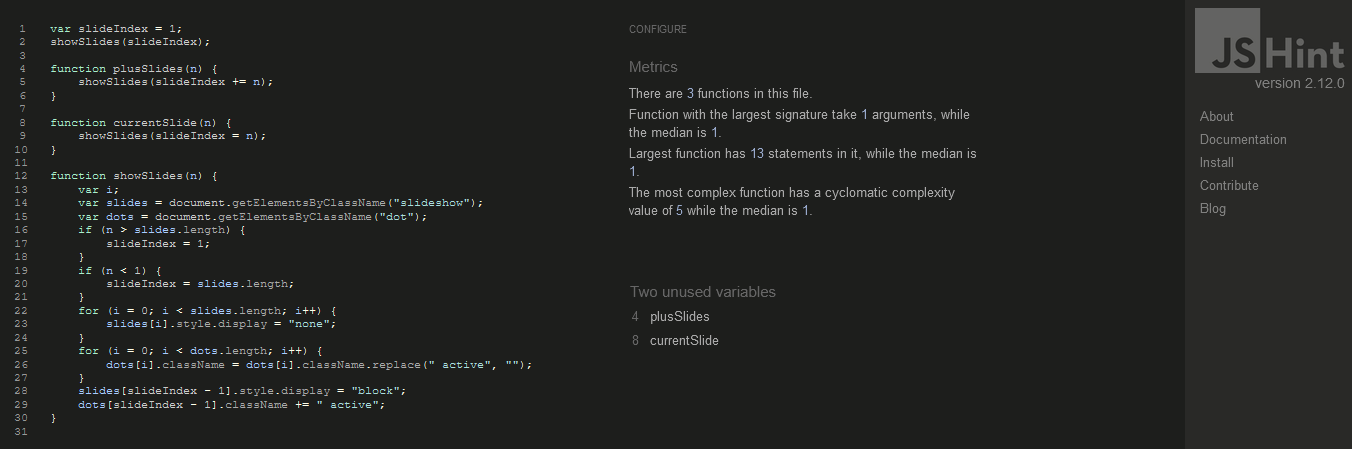
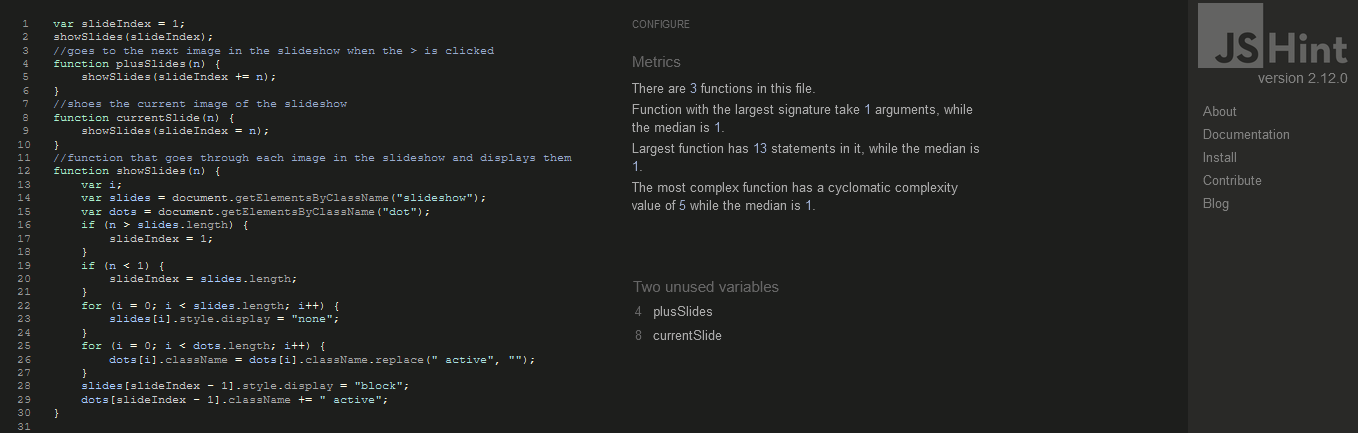
Added comments to each line of code in the js files, html etc

diff --git a/index.html b/index.html
@@ -4,7 +4,7 @@
 <head>
     <meta charset="UTF-8">
     <meta name="viewport" content="width=device-width, initial-scale=1.0">
-    <link href="assets/css/style.css" rel="stylesheet" type="text/css" />
+
 
     <link rel="stylesheet" href="https://use.fontawesome.com/releases/v5.1.1/css/all.css"
         integrity="sha384-O8whS3fhG2OnA5Kas0Y9l3cfpmYjapjI0E4theH4iuMD+pLhbf6JI0jIMfYcK3yZ" crossorigin="anonymous">
@@ -13,11 +13,12 @@
         type="text/css" />
     <link rel="stylesheet" href="https://cdnjs.cloudflare.com/ajax/libs/hover.css/2.1.1/css/hover-min.css"
         type="text/css" />
-
+    <link href="assets/css/style.css" rel="stylesheet" type="text/css" />
     <title>Bookingzilla Homepage</title>
 </head>
 
 <body>
+    <!-- Header that has a link to the index page -->
     <header class="jumbotron" id="navigation">
         <nav class="navbar navbar-masthead navbar-default navbar-fixed-top">
             <div class="container-fluid">
@@ -40,6 +41,7 @@
             </div>
 
             <div class="col">
+                <!-- Suitcase icon got from FontAwesome -->
                 <p>Please see the below slideshow for countries with the most tourists per year,and the top 3
                     cities with the most tourists.
                     <i class="fas fa-suitcase" aria-hidden="true"></i>
@@ -49,11 +51,13 @@
                 </p>
             </div>
             <br />
+            <!-- Slideshow with details of countries with the most tourist -->
             <div class="slideshow-container">
 
-                <!-- Full-width images with number and caption text -->
-                <div class="slideshow">
 
+
+                <div class="slideshow">
+                    <!-- Image of each country, the country name, number of tourists per year and the top 3 cities-->
                     <img class="icon" src="assets/images/spain.jpg" alt="Spain">
                     <h3>Spain</h3>
                     <p>83.5m</p>
@@ -84,10 +88,12 @@
                     <p>Mexico City,Cancun,Meridia</p>
                 </div>
                 <br />
+                <!-- Calls on a function in the emailJS file that goes to the next image in the slideshow -->
                 <a class="prev" onclick="plusSlides(-1)">&#10094;</a>
                 <a class="next" onclick="plusSlides(1)">&#10095;</a>
             </div>
             <div style="text-align:center">
+                <!-- Calls on a function that goes to the slide that is assigned the below number -->
                 <span class="dot" onclick="currentSlide(1)"></span>
                 <span class="dot" onclick="currentSlide(2)"></span>
                 <span class="dot" onclick="currentSlide(3)"></span>
@@ -95,6 +101,7 @@
                 <span class="dot" onclick="currentSlide(5)"></span>
             </div>
             <br />
+            <!-- Image that when clicked on brings the user to the destination page -->
             <div class="row">
                 <div class="col-12">
                     <p>Please click on the below image to search for a destination on Google Maps.
@@ -110,6 +117,7 @@
         </div>
     </div>
     </div>
+    <!-- Used to display my contact details through my social media links -->
     <footer class="footer">
         <div class="container-fluid" id="footer-details">
             <div class="row">
@@ -139,6 +147,7 @@
     </footer>
 
 </body>
+<!-- calls on the below file in order for the slideshow to work properly -->
 <script src="assets/js/slideshow.js"></script>
 
 </html>

diff --git a/assets/js/booking.js b/assets/js/booking.js
@@ -128,7 +128,7 @@ function search() {
         }
     });
 }
-
+//Clears all the markers from the map when this function is called
 function clearMarkers() {
     for (let i = 0; i < markers.length; i++) {
         if (markers[i]) {
@@ -162,13 +162,12 @@ function setAutocompleteCountry() {
     clearResults();
     clearMarkers();
 }
-
+//function that adds markers to the map
 function dropMarker(i) {
     return function () {
         markers[i].setMap(map);
     };
 }
-
 function addResult(result, i) {
     const results = document.getElementById("results");
     const markerLetter = String.fromCharCode("A".charCodeAt(0) + (i % 26));
@@ -270,11 +269,11 @@ function buildIWContent(place) {
     }
 
 }
-
+//removes the text in the enter a city field that the user has entered
 function clearSearch() {
     document.getElementById("autocomplete").value = "";
 }
-
+//calls on the functions clearResults() and clearSearch() in addition to setting the map view back to the default location of the country Spain
 function clearAll() {
 
     clearResults();

diff --git a/contact.html b/contact.html
@@ -38,7 +38,7 @@
         <div class="row bg-color-contact">
             <div class="col">
                 <h3>Want to know more details?</h3>
-                <p>Email me using the below form!</p>
+                <p>Please fill out the below form and click the "Send Message by Email" button to send it to me by email. </p>
                 <div class="center-form">
                     <form onsubmit="return sendMail(this);">
                         <label for="name">Name:</label><br>
@@ -58,7 +58,7 @@
                         <br />
                         <label for="comment">Comment:</label><br>
                         <input type="textarea" name="comment" id="comment" class="form-control"
-                            placeholder="Please enter your comment here" required />
+                            placeholder="Comment here" required />
                         <div class="form-row text-center">
                             <br />
                             <div class="col">

diff --git a/assets/js/emailJS.js b/assets/js/emailJS.js
@@ -1,8 +1,8 @@
-
+//needed to call the EmailJS service
 (function () {
     emailjs.init("user_Z3NhniKVmxQR4ouXUECcZ");
 })();
-
+//function that gets value from the contact form and sends it to the EmailJS website where it is then placed into an email template that is then sent out to me by email
 function sendMail(contactForm) {
     emailjs.send("service_m0pgoxr", "template_8t12twf", {
             "from_name": contactForm.name.value,
@@ -11,6 +11,7 @@ function sendMail(contactForm) {
             "from_comment": contactForm.comment.value,
             "from_people": contactForm.people.value,
         })
+        //outputs message on developer tool saying whether or not values in the form was sent to EmailJS successfully
         .then(
             function (response) {
                 console.log("SUCCESS", response);

diff --git a/assets/js/slideshow.js b/assets/js/slideshow.js
@@ -1,14 +1,14 @@
 var slideIndex = 1;
 showSlides(slideIndex);
-
+//goes to the next image in the slideshow when the > is clicked
 function plusSlides(n) {
     showSlides(slideIndex += n);
 }
-
+//shoes the current image of the slideshow
 function currentSlide(n) {
     showSlides(slideIndex = n);
 }
-
+//function that goes through each image in the slideshow and displays them
 function showSlides(n) {
     var i;
     var slides = document.getElementsByClassName("slideshow");

diff --git a/assets/css/style.css b/assets/css/style.css
@@ -33,12 +33,13 @@
 
 }
 
-.slideshow p,
+.col h3,
 .slideshow h3 {
-    color: coral;
-    text-align: center;
+    color: snow;
     font-weight: bold;
+    text-align: center;
 }
+
 
 h3 {
     color: snow;
@@ -60,8 +61,8 @@ p {
 
 /*Google Maps*/
 #map {
-    min-height: 400px;
-
+    min-height: 360px;
+   
 
 }
 
@@ -215,6 +216,6 @@ label {
 #comment {
     display: block;
     margin: auto;
-
+    width: 50%;
     height: 100px;
 }

diff --git a/README.md b/README.md
@@ -76,7 +76,7 @@ I have included wireframes for each page on this website, click on the below pag
 
 [Homepage](https://github.com/SeanD17/Milestone-Project-2/blob/b4ecb737670ae55172b7f67d1a049dfa0cecfe22/assets/wireframes/Holiday%20Booking%20Homepage.pdf)
 
-[Destination](https://github.com/SeanD17/Milestone-Project-2/blob/b4ecb737670ae55172b7f67d1a049dfa0cecfe22/assets/wireframes/Holiday%20Booking%20Homepage.pdf)
+[Destination](https://github.com/SeanD17/Milestone-Project-2/blob/c8bba7927154286896b968bd99dd8baef9e5343a/assets/wireframes/Holiday%20Booking.pdf)
 
 [Contact](https://github.com/SeanD17/Milestone-Project-2/blob/b4ecb737670ae55172b7f67d1a049dfa0cecfe22/assets/wireframes/Contact%20Form.pdf)
 
@@ -133,7 +133,6 @@ Google Places  returns multiple data items on the locations and these are used t
     
 A second event listener is used to check if a marker has been clicked and will display an information window with the relevant place details.
     
-Each radio option defines a place type to display markers for any locations on the map defined with the same place type as the one selected. Some of the options are set to use more than one place type, these are defined using a comma separated list. 
     
 ## Libraries:
 [FontAwesome](https://fontawesome.com/)
@@ -166,11 +165,11 @@ Used for the creation of wireframes
 ## Validation:
 HTML - [W3C](https://validator.w3.org/) - Markup Validation
 
-[Index Validation Result](https://validator.w3.org/nu/?doc=https%3A%2F%2Fgithub.com%2FSeanD17%2FMilestone-Project-2%2Fblob%2Fmaster%2Findex.html)
+[Index Validation Result]()
 
-[Destination Validation Result](https://validator.w3.org/nu/?doc=https%3A%2F%2Fgithub.com%2FSeanD17%2FMilestone-Project-2%2Fblob%2Fmaster%2Fdestination.html)
+[Destination Validation Result]()
 
-[Contact Validation Result](https://validator.w3.org/nu/?doc=https%3A%2F%2Fgithub.com%2FSeanD17%2FMilestone-Project-2%2Fblob%2Fmaster%2Fcontact.html)
+[Contact Validation Result]()
 
 
 CSS - [W3C](https://jigsaw.w3.org/css-validator/) - CSS Validation
